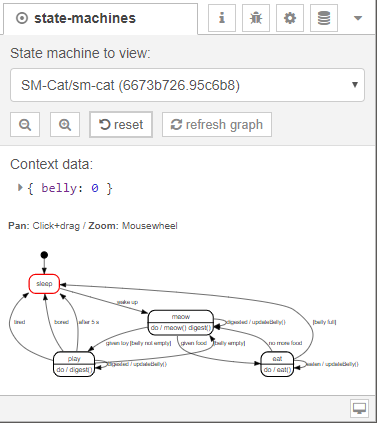
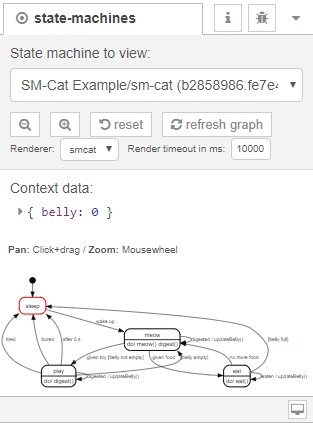
Updated docs

diff --git a/README.md b/README.md
@@ -70,6 +70,10 @@ There are a number of buttons available to control the editor view/control the m
  - Reset button: This resets the current machine instance to its initial state and data context.
  - Refresh graph button: This redraws the visualization manually (useful e.g. if the instance was changed on the server by another user or in a separate editor).
 
+Also there are some settings that affect how the state graph is rendered. 
+ - With the `Renderer:` dropdown you can select the default `smcat` renderer. For more performance you can also use the native graphviz `dot` renderer if it is available on your system. In order to be able to select it the `dot` command must be available in the environment node-red is running in.
+ - The `Render timeout in ms:` sets the maximum time a rendering may take to render. If you run on slow hardware you can crank up the value. Don't worry: The renderings are cached and only need to be redrawn if something changes. Else they are taken from the cache.
+
 ## Example flows
 
 ### Simple statemachine with data object

diff --git a/TODO.md b/TODO.md
@@ -23,5 +23,5 @@ TODO
  - [ ] Implement functionality to be able to open the state-machine visualization in a new window
  - [ ] Maybe provide a third output that can send events to other statemachines using a `smxstate.send()` function of some sorts.
  - [ ] See what it takes to put the visualization onto node-red-dashboard
- - [ ] Revisit the rendering process timeout of 10 seconds because [RasPi2 performance seems to be too low for the cat example](https://discourse.nodered.org/t/announcement-node-red-contrib-xstate-machine-flexible-state-machines-for-node-red/24262/6?u=sonntam)
- - [ ] Implement caching for the visualization graphics
+ - [x] Revisit the rendering process timeout of 10 seconds because [RasPi2 performance seems to be too low for the cat example](https://discourse.nodered.org/t/announcement-node-red-contrib-xstate-machine-flexible-state-machines-for-node-red/24262/6?u=sonntam)
+ - [x] Implement caching for the visualization graphics

diff --git a/.changeset/small-tools-confess.md b/.changeset/small-tools-confess.md
@@ -1,0 +1,5 @@
+---
+"node-red-contrib-xstate-machine": patch
+---
+
+Update docs to reflect the extendes sidebar settings
